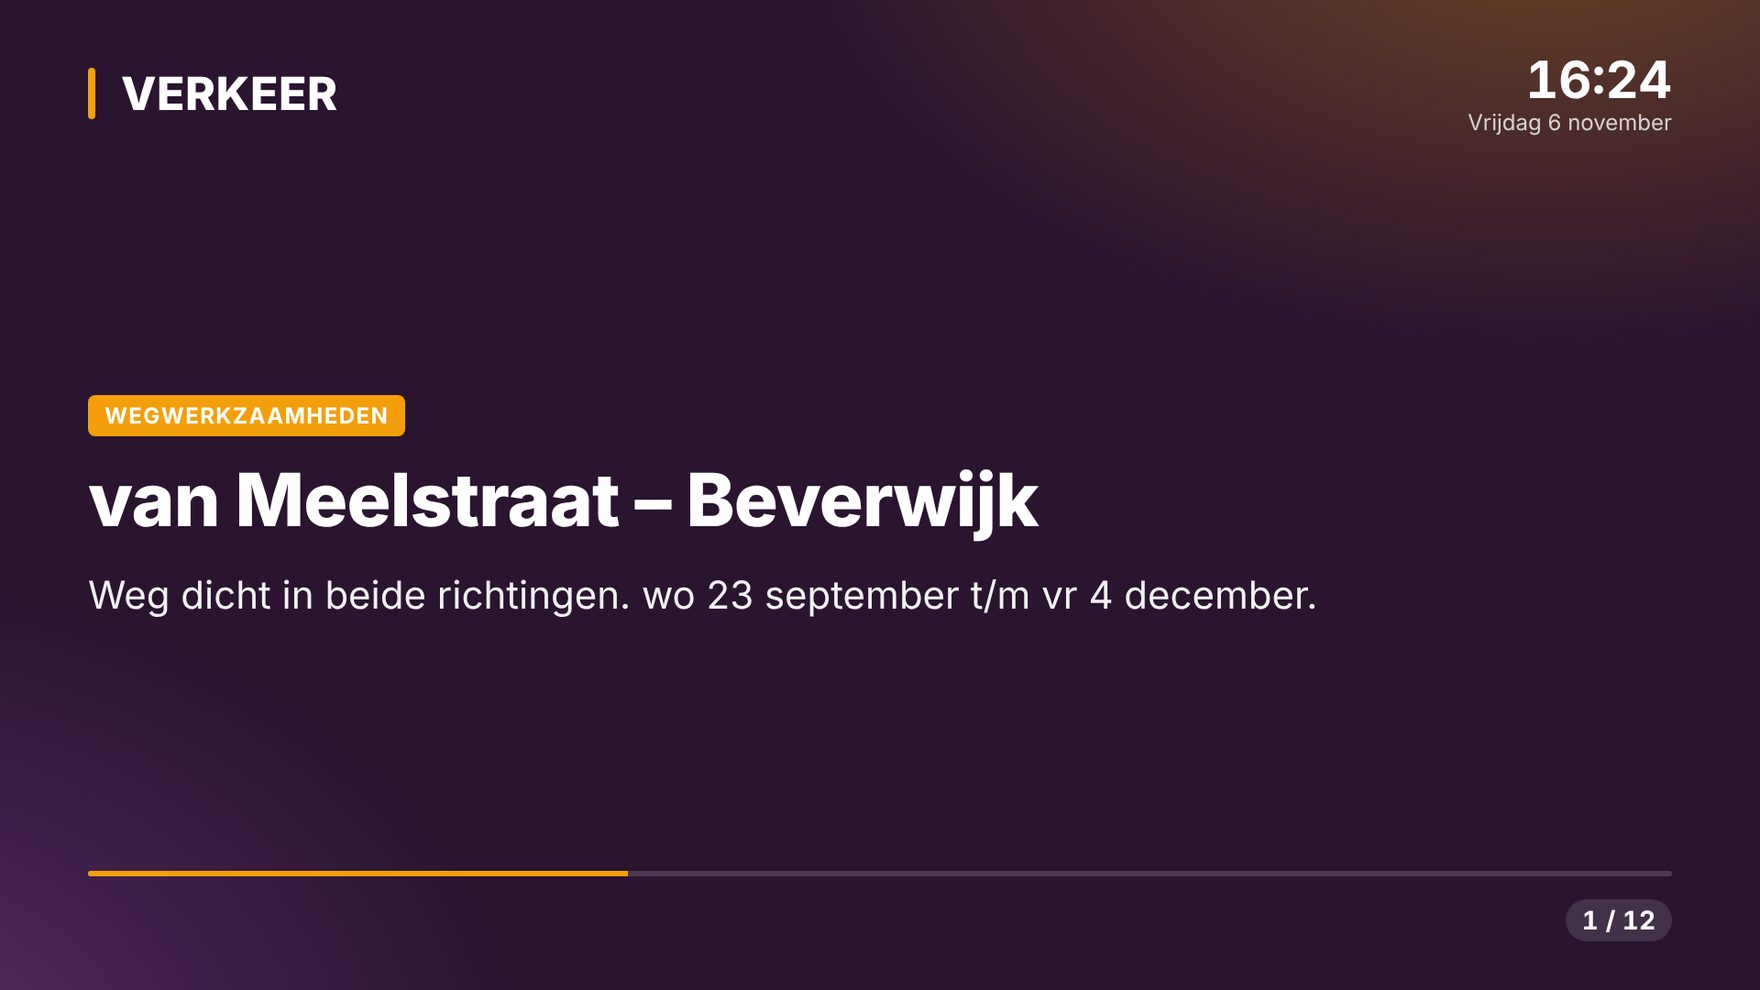
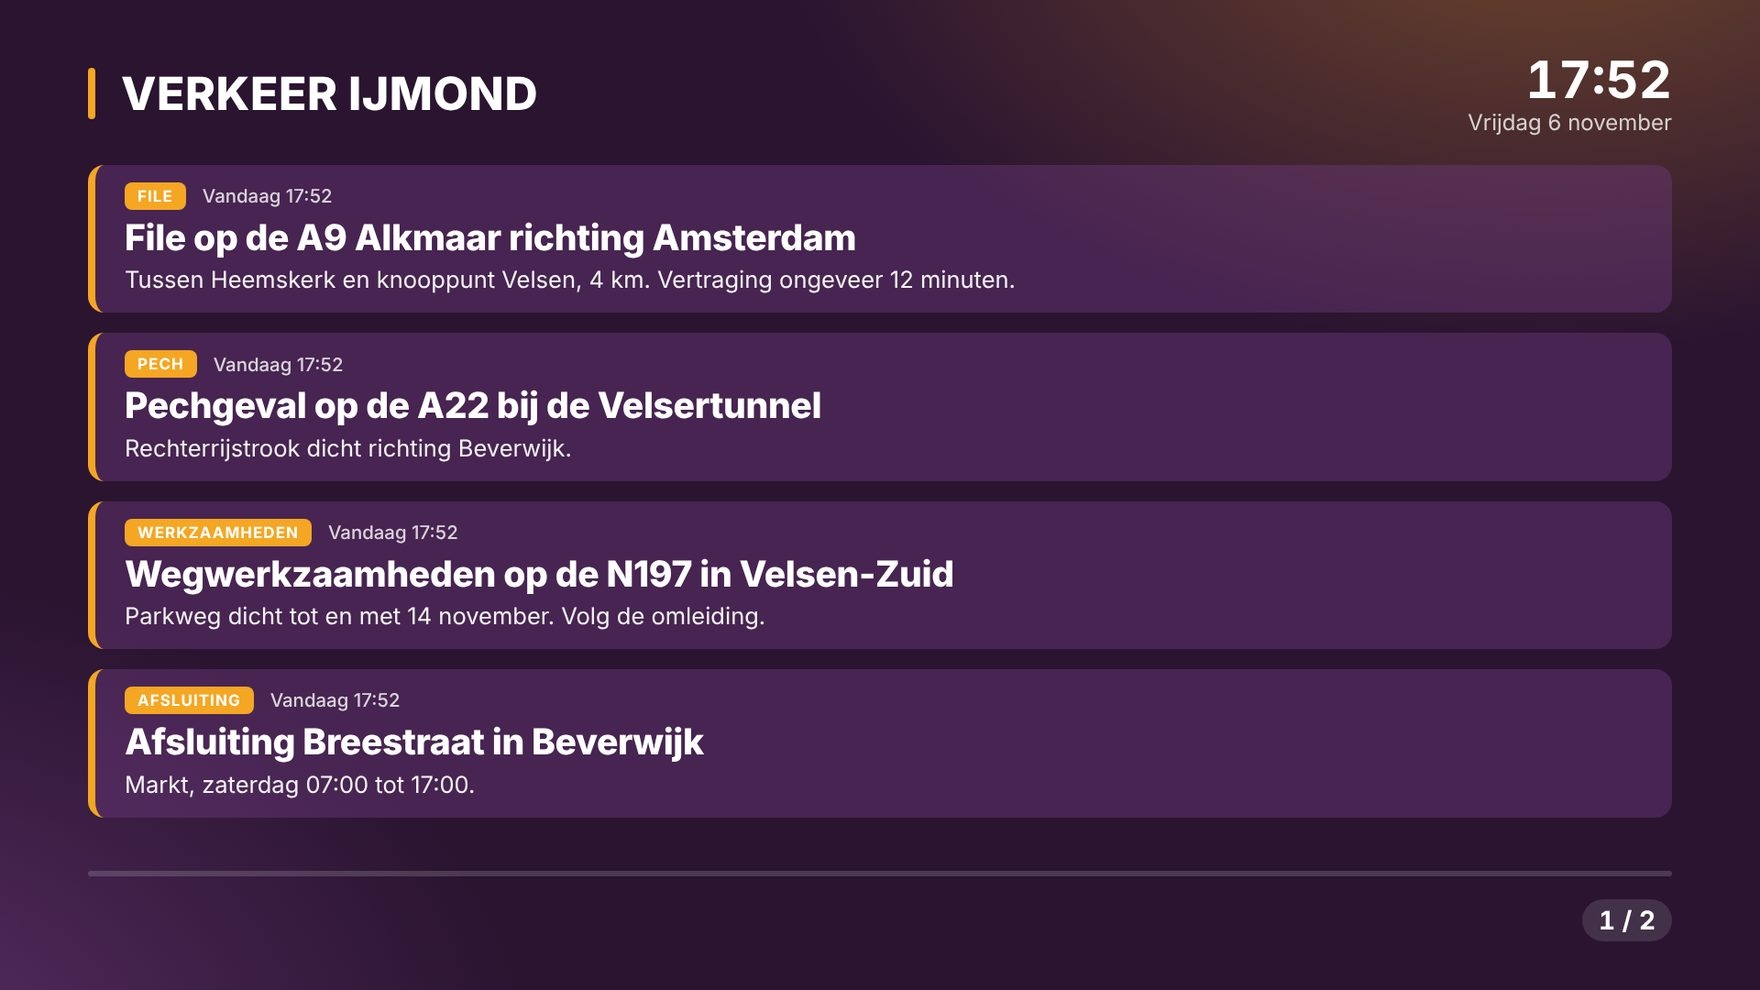
Beeldkrant: items per page (list of headlines), regional beeldkranten 4 per page
Claude-Session: https://claude.ai/code/session_01CnJtxFpcE8pMuPG4NumdHX

diff --git a/apps/management/server/beeldkrant-page.ts b/apps/management/server/beeldkrant-page.ts
@@ -4,9 +4,10 @@
  * `ticker` = height of the channel's news ticker when it stays on air over the beeldkrant: the footer moves up.
  * It fetches `/beeldkrant/<id>/data.json` (settings + pages) every minute and shows page
  * floor((now - start) / secondsPerPage) mod pageCount, so a restart or a second output shows the same page.
+ * With settings.itemsPerPage > 1 a page is a list of that many items (title, time, two lines of text, no photo).
  * The clock is corrected with the management node's time (serverTime).
  * Preview: `page.html?preview=1` in an iframe of the editor gets { type: "beeldkrant", settings, pages, logoUrl, pin }
- * through postMessage (pin = page index to hold, or null to cycle).
+ * through postMessage (pin = screen index to hold, or null to cycle).
  */
 export const BEELDKRANT_PAGE = `<!doctype html>
 <html>
@@ -68,6 +69,15 @@ export const BEELDKRANT_PAGE = `<!doctype html>
   .l-text .copy { max-width: 1500px; }
   .l-text .title { font-size: calc(80px * var(--scale)); }
   .l-text .text { font-size: calc(42px * var(--scale)); }
+  .l-list .box { top: 180px; }
+  .l-list .copy { justify-content: flex-start; gap: calc(26px * var(--scale)); }
+  .l-list .row { display: flex; gap: 26px; padding: calc(22px * var(--scale)) 32px; border-radius: 18px; background: color-mix(in srgb, var(--panel) 42%, transparent); border-left: 8px solid var(--accent); }
+  .l-list .row > div { min-width: 0; flex: 1; }
+  .l-list .meta { margin-bottom: 8px; font-size: calc(24px * var(--scale)); }
+  .l-list .chip { font-size: calc(20px * var(--scale)); padding: 5px 14px; }
+  .l-list .title { font-size: calc(46px * var(--scale)); line-height: 1.12; margin: 0 0 8px; }
+  .l-list .text { font-size: calc(30px * var(--scale)); line-height: 1.34; display: -webkit-box; -webkit-box-orient: vertical; -webkit-line-clamp: 2; }
+  .l-list .row.n4 .text, .l-list .row.n5 .text, .l-list .row.n6 .text { -webkit-line-clamp: 1; }
   .empty { position: absolute; inset: 0; display: grid; place-items: center; font-size: 48px; font-weight: 600; opacity: .85; text-align: center; padding: 0 200px; }
 </style>
 </head>
@@ -150,11 +160,35 @@ export const BEELDKRANT_PAGE = `<!doctype html>
     box.appendChild(copy); page.appendChild(box);
     return page;
   }
+  /** Several items on one page: a list of rows (no photos), shrunk together until it fits. */
+  function renderList(list, s) {
+    var page = el("div", "page l-list"), box = el("div", "box"), copy = el("div", "copy");
+    list.forEach(function (p) {
+      var row = el("div", "row n" + list.length), inner = el("div");
+      var meta = el("div", "meta");
+      if (s.show.category && p.category) meta.appendChild(el("span", "chip", p.category));
+      if (s.show.date && p.date) meta.appendChild(el("span", "when", when(p.date)));
+      if (meta.childNodes.length) inner.appendChild(meta);
+      inner.appendChild(el("h1", "title", p.title));
+      if (p.text) inner.appendChild(el("div", "text", p.text));
+      if (s.show.source && p.source) inner.appendChild(el("div", "src", p.source));
+      row.appendChild(inner); copy.appendChild(row);
+    });
+    box.appendChild(copy); page.appendChild(box);
+    return page;
+  }
+  function fitList(page) {
+    var copy = page.querySelector(".copy"), boxH = copy.parentNode.clientHeight;
+    for (var f = 1; f >= 0.55; f -= 0.05) {
+      page.style.setProperty("--scale", String(sizeScale() * f));
+      if (copy.scrollHeight <= boxH + 1) return;
+    }
+  }
   function show(key, make) {
     if (shown.key === key) return;
     var stage = $("stage"), old = shown.el, page = make();
     stage.appendChild(page);
-    if (page.querySelector(".copy")) fit(page);
+    if (page.classList.contains("l-list")) fitList(page); else if (page.querySelector(".copy")) fit(page);
     void page.offsetWidth;
     page.classList.add("on");
     if (old) { old.classList.remove("on"); old.classList.add("off"); setTimeout(function () { old.remove(); }, 1500); }
@@ -185,12 +219,15 @@ export const BEELDKRANT_PAGE = `<!doctype html>
     var ds = t.toLocaleDateString(lang(), { weekday: "long", day: "numeric", month: "long" });
     setText("date", ds.charAt(0).toUpperCase() + ds.slice(1));
     if (!data) return;
-    var s = data.settings, pages = data.pages || [], n = pages.length, per = s.secondsPerPage * 1000;
+    var s = data.settings, items = data.pages || [], per = s.secondsPerPage * 1000, ipp = Math.max(1, s.itemsPerPage || 1);
+    var pages = [];
+    for (var i = 0; i < items.length; i += ipp) pages.push(items.slice(i, i + ipp));
+    var n = pages.length;
     if (!n) { setText("num", ""); setProgress(0); show("empty:" + s.emptyText, function () { var e = el("div", "page"); e.appendChild(el("div", "empty", s.emptyText)); return e; }); return; }
     var elapsed = Math.max(0, now() - start), idx = pin != null ? Math.min(pin, n - 1) : Math.floor(elapsed / per) % n;
     var p = pages[idx];
-    show(JSON.stringify([p, s]), function () { return render(p, s); });
-    preload(pages[(idx + 1) % n]);
+    show(JSON.stringify([p, s]), function () { return ipp > 1 ? renderList(p, s) : render(p[0], s); });
+    if (ipp === 1) preload(pages[(idx + 1) % n][0]);
     setText("num", (idx + 1) + " / " + n);
     setProgress(pin != null ? 1 : (elapsed % per) / per);
   }

diff --git a/apps/management/web/pages/Beeldkrant.tsx b/apps/management/web/pages/Beeldkrant.tsx
@@ -13,6 +13,7 @@ type Layout = "photo-left" | "photo-right" | "photo-top" | "photo-full" | "text"
 const LAYOUTS: Layout[] = ["photo-left", "photo-right", "photo-top", "photo-full", "text"];
 interface Settings {
   secondsPerPage: number;
+  itemsPerPage: number;
   maxItems: number;
   maxAgeHours: number;
   maxTitleChars: number;
@@ -73,6 +74,7 @@ interface PageData {
 
 const defaults = (): Settings => ({
   secondsPerPage: 12,
+  itemsPerPage: 1,
   maxItems: 10,
   maxAgeHours: 72,
   maxTitleChars: 90,
@@ -202,21 +204,23 @@ function Preview({ settings, feedIds, onInfo }: { settings: Settings; feedIds: n
       void post<{ pages: PageData[]; durationMs: number }>("/api/beeldkranten/preview", { settings, feedIds })
         .then((r) => {
           setPages(r.pages);
-          onInfo({ pages: r.pages.length, durationMs: r.durationMs });
+          onInfo({ pages: Math.ceil(r.pages.length / Math.max(1, settings.itemsPerPage)), durationMs: r.durationMs });
         })
         .catch(() => undefined);
     }, 250);
     return () => clearTimeout(timer);
     // eslint-disable-next-line react-hooks/exhaustive-deps
   }, [key]);
+  // Screens on air: itemsPerPage items share one screen; the pin holds a screen.
+  const screens = Math.ceil(pages.length / Math.max(1, settings.itemsPerPage));
   useEffect(() => {
-    if (pin != null && pin >= pages.length) setPin(pages.length ? pages.length - 1 : null);
-  }, [pages.length, pin]);
+    if (pin != null && pin >= screens) setPin(screens ? screens - 1 : null);
+  }, [screens, pin]);
   useEffect(() => {
     if (ready) frame.current?.contentWindow?.postMessage({ type: "beeldkrant", settings, pages, logoUrl, pin }, location.origin);
   }, [ready, settings, pages, logoUrl, pin]);
 
-  const step = (d: number) => pages.length && setPin(((pin ?? 0) + d + pages.length) % pages.length);
+  const step = (d: number) => screens && setPin(((pin ?? 0) + d + screens) % screens);
   return (
     <div className="space-y-2">
       <div className="relative aspect-video w-full overflow-hidden rounded-lg border border-line bg-black shadow-sm">
@@ -228,7 +232,7 @@ function Preview({ settings, feedIds, onInfo }: { settings: Settings; feedIds: n
           {pin == null ? t("mgmt.bk.hold") : t("mgmt.bk.play")}
         </Button>
         <Button size="sm" variant="secondary" icon={<ChevronRight className="size-3.5" />} onClick={() => step(1)} disabled={!pages.length} title={t("mgmt.bk.nextPage")} />
-        <span className="ml-1 text-muted">{pin != null ? t("mgmt.bk.pageOf", { n: pin + 1, total: pages.length }) : t("mgmt.bk.pages", { count: pages.length })}</span>
+        <span className="ml-1 text-muted">{pin != null ? t("mgmt.bk.pageOf", { n: pin + 1, total: screens }) : t("mgmt.bk.pages", { count: screens })}</span>
       </div>
     </div>
   );
@@ -392,6 +396,15 @@ function Editor({ id, feeds, onSaved }: { id: number | "new"; feeds: Feed[]; onS
           <CardHeader icon={<RefreshCw className="size-4" />} title={t("mgmt.bk.timing")} description={t("mgmt.bk.timingHint")} />
           <CardBody className="space-y-4">
             <Num label={t("mgmt.bk.secondsPerPage")} value={s.secondsPerPage} min={3} max={120} suffix="s" onChange={(v) => set({ secondsPerPage: v })} />
+            <Field label={t("mgmt.bk.itemsPerPage")} hint={t("mgmt.bk.itemsPerPageHint")}>
+              {() => (
+                <Segmented
+                  value={String(s.itemsPerPage ?? 1)}
+                  onChange={(v) => set({ itemsPerPage: Number(v) })}
+                  options={["1", "2", "3", "4", "5", "6"].map((v) => ({ value: v, label: v }))}
+                />
+              )}
+            </Field>
             <Field label={t("mgmt.bk.length")} hint={t("mgmt.bk.lengthHint")}>
               {() => (
                 <Segmented

diff --git a/apps/management/web/public/help/index.html b/apps/management/web/public/help/index.html
@@ -338,9 +338,9 @@ regionaal: [
    <div class="warn"><b>Wees voorzichtig</b>Keur een melding af als hij te persoonlijk is, als er slachtoffers bij betrokken zijn of als de familie het nog niet weet.</div>` },
  { t: '112: veilig ingesteld', img: ['65-p2000-instellingen', 'Het venster 112-meldingen met hulpdiensten, vertraging, goedkeuring en straatnamen.'],
    b: `<p>De standaardinstellingen zijn bewust voorzichtig:</p><table><tr><th>Instelling</th><th>Standaard</th></tr><tr><td>Hulpdiensten</td><td>Brandweer en hulp op het water aan; ambulance, politie en traumahelikopter uit.</td></tr><tr><td>Vertraging</td><td>20 minuten, zodat je niet sneller bent dan de hulpdiensten ter plaatse.</td></tr><tr><td>Eerst goedkeuren</td><td>Aan.</td></tr><tr><td>Straatnaam tonen</td><td>Uit: alleen de plaats.</td></tr><tr><td>Automatische brandmeldingen</td><td>Worden overgeslagen.</td></tr><tr><td>Hoe lang tonen</td><td>6 uur.</td></tr></table><p>Huisnummers, namen en medische details komen nooit in beeld.</p>` },
- { t: 'Maak een beeldkrant en plan hem in', img: ['66-verkeer-op-zender', 'De beeldkrant Verkeer IJmond zoals de kijker hem ziet.'],
+ { t: 'Maak een beeldkrant en plan hem in', img: ['66-verkeer-op-zender', 'De beeldkrant Verkeer IJmond met vier berichten per pagina, zoals de kijker hem ziet.'],
    b: `<ol><li>Klik op de kaart op ${ui('Maak beeldkrant')}. Er komt een beeldkrant in de huisstijl, en een blok met dezelfde naam.</li><li>Zet dat blok in een uurblok, net als elke andere beeldkrant (hoofdstuk 1, stap 6), of kies hem bij ${ui('Vul de rest van het uur met')}.</li></ol>
-   <p>De berichten verversen vanzelf. Je hoeft de beeldkrant nooit opnieuw te maken.</p><div class="tip"><b>Ook in de nieuwsticker</b>Een regionale bron kan ook onderin beeld meelopen: kies hem bij ${ui('Kanaal &amp; lagen')} → Nieuwsticker → Feeds.</div>` },
+   <p>De berichten verversen vanzelf. Je hoeft de beeldkrant nooit opnieuw te maken.</p><p><b>Meer berichten tegelijk:</b> open de beeldkrant onder de tab ${ui('Beeldkranten')} en kies bij ${ui('Berichten per pagina')} 1 tot 6. Bij meer dan 1 komt er een lijst met koppen in beeld, zonder foto’s. Een nieuwe regionale beeldkrant toont er standaard 4 (evenementen 3).</p><div class="tip"><b>Ook in de nieuwsticker</b>Een regionale bron kan ook onderin beeld meelopen: kies hem bij ${ui('Kanaal &amp; lagen')} → Nieuwsticker → Feeds.</div>` },
 ],
 };
 

diff --git a/apps/management/server/rsslogic.ts b/apps/management/server/rsslogic.ts
@@ -291,6 +291,8 @@ export const LAYOUTS = ["photo-left", "photo-right", "photo-top", "photo-full", 
 export const beeldkrantSchema = z.object({
   /** How long each page (news item) stays on screen. */
   secondsPerPage: z.number().int().min(3).max(300).default(12),
+  /** Items shown together on one page: 1 = one big item, more = a list (titles + short text, no photos). */
+  itemsPerPage: z.number().int().min(1).max(6).default(1),
   /** Most recent items shown (over all feeds). */
   maxItems: z.number().int().min(1).max(100).default(10),
   /** Items older than this are left out (0 = no limit). */
@@ -389,9 +391,14 @@ export function buildPages(items: StoredItem[], s: BeeldkrantSettings, feedNames
     });
 }
 
-/** Default on-air length of a beeldkrant: one pass of all pages (at least one page), or the fixed time. */
-export function beeldkrantDuration(s: BeeldkrantSettings, pageCount: number) {
-  return s.duration.mode === "fixed" ? s.duration.fixedSeconds * 1000 : Math.max(1, pageCount) * s.secondsPerPage * 1000;
+/** Screens on air for `itemCount` items: `itemsPerPage` items share one screen. */
+export function screenCount(s: Pick<BeeldkrantSettings, "itemsPerPage">, itemCount: number) {
+  return Math.ceil(itemCount / Math.max(1, s.itemsPerPage ?? 1));
+}
+
+/** Default on-air length of a beeldkrant: one pass of all screens (at least one), or the fixed time. */
+export function beeldkrantDuration(s: BeeldkrantSettings, itemCount: number) {
+  return s.duration.mode === "fixed" ? s.duration.fixedSeconds * 1000 : Math.max(1, screenCount(s, itemCount)) * s.secondsPerPage * 1000;
 }
 
 /** The page on screen at `now` for a beeldkrant that started at `start` (pages loop). */

diff --git a/apps/management/server/rss.ts b/apps/management/server/rss.ts
@@ -19,7 +19,7 @@ import { publicUrl } from "./director.js";
 import { beeldkrantPages, beeldkrantSettings } from "./beeldkrantdb.js";
 import { loadRegional } from "./regional.js";
 import type { RegionalItem, RegionalSource } from "./regionallogic.js";
-import { beeldkrantDuration, beeldkrantSchema, mergeItems, parseFeed, wpPostsToItems, wpSite, wpUrls, type BeeldkrantSettings, type FeedItem, type WpCategory } from "./rsslogic.js";
+import { beeldkrantDuration, beeldkrantSchema, screenCount, mergeItems, parseFeed, wpPostsToItems, wpSite, wpUrls, type BeeldkrantSettings, type FeedItem, type WpCategory } from "./rsslogic.js";
 
 const FETCH_TIMEOUT_MS = 15_000;
 const MAX_FEED_BYTES = 8 * 1024 * 1024;
@@ -343,7 +343,7 @@ export function registerRss(app: FastifyInstance, platform: Platform, rss: RssFe
     if (!b) throw new HttpError(404, "not_found");
     const pages = rss.pages(b.settings, b.feedIds, false).length;
     const usedIn = (db.prepare("SELECT COUNT(DISTINCT block_id) AS n FROM block_items WHERE beeldkrant_id = ?").get(id) as { n: number }).n;
-    return { id, name: b.name, feedIds: b.feedIds, settings: b.settings, pageCount: pages, durationMs: beeldkrantDuration(b.settings, pages), usedIn, pageUrl: `${publicUrl(platform)}/beeldkrant/page.html?id=${id}` };
+    return { id, name: b.name, feedIds: b.feedIds, settings: b.settings, pageCount: screenCount(b.settings, pages), itemCount: pages, durationMs: beeldkrantDuration(b.settings, pages), usedIn, pageUrl: `${publicUrl(platform)}/beeldkrant/page.html?id=${id}` };
   };
   const saveFeeds = (id: number, feedIds: number[]) => {
     db.prepare("DELETE FROM beeldkrant_feeds WHERE beeldkrant_id = ?").run(id);

diff --git a/apps/management/test/beeldkrant.test.ts b/apps/management/test/beeldkrant.test.ts
@@ -9,7 +9,7 @@ import { test } from "node:test";
 import { createPlatform, type Platform } from "@tvsm/platform";
 import { managementOptions, type ManagementHandles } from "../server/app.ts";
 import type { DriverFactory, PlayoutDriver, SwitcherDriver, SwitcherInfo } from "../server/drivers.ts";
-import { beeldkrantDuration, beeldkrantSchema, buildPages, htmlToText, pageAt, parseFeed, truncate, wpPostsToItems, wpSite, wpUrls } from "../server/rsslogic.ts";
+import { beeldkrantDuration, beeldkrantSchema, buildPages, screenCount, htmlToText, pageAt, parseFeed, truncate, wpPostsToItems, wpSite, wpUrls } from "../server/rsslogic.ts";
 
 // ---- pure logic ---------------------------------------------------------------
 
@@ -112,6 +112,10 @@ test("beeldkrant: text is cut to the maximum, pages follow the settings", () => 
 
   assert.equal(beeldkrantDuration(s, 5), 5 * 12_000);
   assert.equal(beeldkrantDuration(s, 0), 12_000);
+  // Four items per page: 5 items = 2 screens.
+  assert.equal(beeldkrantDuration({ ...s, itemsPerPage: 4 }, 5), 2 * 12_000);
+  assert.equal(screenCount({ itemsPerPage: 3 }, 6), 2);
+  assert.equal(screenCount({ itemsPerPage: 1 }, 6), 6);
   assert.equal(beeldkrantDuration({ ...s, duration: { mode: "fixed", fixedSeconds: 300 } }, 5), 300_000);
   assert.deepEqual(pageAt(0, 25_000, 3, 10), { index: 2, elapsedMs: 5000 });
   assert.deepEqual(pageAt(0, 31_000, 3, 10), { index: 0, elapsedMs: 1000 });

diff --git a/apps/management/server/regional.ts b/apps/management/server/regional.ts
@@ -303,8 +303,10 @@ export function registerRegional(app: FastifyInstance, platform: Platform, rss: 
     const lang = (JSON.parse((db.prepare("SELECT config FROM rss_feeds WHERE id = ?").get(f.id) as { config: string }).config || "{}").language ?? "nl") as "nl" | "en";
     const settings = {
       layout: "text",
-      secondsPerPage: source === "traffic" ? 10 : 12,
-      maxItems: source === "p2000" ? 6 : 12,
+      // Short messages: several on one screen (the editor can change it on the beeldkrant).
+      itemsPerPage: source === "events" ? 3 : 4,
+      secondsPerPage: 15,
+      maxItems: source === "p2000" ? 12 : 16,
       maxAgeHours: source === "p2000" ? 6 : 0,
       maxTextChars: 300,
       headerText: d.header[lang],

diff --git a/apps/management/test/regional.test.ts b/apps/management/test/regional.test.ts
@@ -372,6 +372,7 @@ test("regional: sources switched on by the editors feed beeldkranten", async () 
   const data = async () => (await api("GET", `/beeldkrant/${bk.body.beeldkrantId}/data.json`)).body;
   assert.equal((await data()).pages.length, 0); // nothing approved yet
   assert.equal((await data()).settings.headerText, "112 IJmond");
+  assert.equal((await data()).settings.itemsPerPage, 4);
   for (const i of items) await api("POST", `/api/regional/items/${i.id}/approve`);
   // The fire is 30 minutes old (delay 20): on air. The gas leak is 2 minutes old: waits.
   assert.deepEqual((await data()).pages.map((x: { title: string }) => x.title), ["Woningbrand in IJmuiden"]);

diff --git a/docs/beeldkrant.md b/docs/beeldkrant.md
@@ -32,6 +32,6 @@ A beeldkrant is an item in a TV block (`block_items.type = 'beeldkrant'`). **Mak
 
 ## On air
 
-The director plays `PLAY <ch>-10 [HTML] "<publicUrl>/beeldkrant/page.html?id=<id>&start=<epoch ms>"` on the playout layer and keeps the ATEM on the playout input. The page (1920×1080) loads `/beeldkrant/<id>/data.json` every minute and shows page `floor((now - start) / secondsPerPage) mod pages`, corrected with the management node's clock, so a restart picks up the same page. Set **Settings → public URL** of the management node so the studio node can reach it.
+The director plays `PLAY <ch>-10 [HTML] "<publicUrl>/beeldkrant/page.html?id=<id>&start=<epoch ms>"` on the playout layer and keeps the ATEM on the playout input. The page (1920×1080) loads `/beeldkrant/<id>/data.json` every minute and shows page `floor((now - start) / secondsPerPage) mod pages`, corrected with the management node's clock, so a restart picks up the same page. With `itemsPerPage` > 1 (1–6) a page is a list of that many items (headline, time, short text, no photo); the duration and page numbers count these screens (`screenCount`). Set **Settings → public URL** of the management node so the studio node can reach it.
 
 Code: `server/rsslogic.ts` (pure: parsing, WordPress, text cutting, pages), `server/rss.ts` (feeds, fetching, routes), `server/beeldkrantdb.ts`, `server/beeldkrant-page.ts` (the HTML page), `web/pages/Beeldkrant.tsx`. Tests: `test/beeldkrant.test.ts`.

diff --git a/docs/beeldkrant.nl.md b/docs/beeldkrant.nl.md
@@ -32,4 +32,4 @@ Een beeldkrant is een item in een tv-blok (`block_items.type = 'beeldkrant'`). *
 
 ## Uitzending
 
-De regisseur speelt `PLAY <ch>-10 [HTML] "<publicUrl>/beeldkrant/page.html?id=<id>&start=<epoch ms>"` op de playout-laag en houdt de ATEM op de playout-input. De pagina (1920×1080) haalt elke minuut `/beeldkrant/<id>/data.json` op en toont pagina `floor((nu - start) / secondenPerPagina) mod pagina's`, gecorrigeerd met de klok van de management-node, zodat een herstart op dezelfde pagina verdergaat. Stel bij **Instellingen → publieke URL** het adres van de management-node in zodat de studio-node die kan bereiken.
+De regisseur speelt `PLAY <ch>-10 [HTML] "<publicUrl>/beeldkrant/page.html?id=<id>&start=<epoch ms>"` op de playout-laag en houdt de ATEM op de playout-input. De pagina (1920×1080) haalt elke minuut `/beeldkrant/<id>/data.json` op en toont pagina `floor((nu - start) / secondenPerPagina) mod pagina's`, gecorrigeerd met de klok van de management-node, zodat een herstart op dezelfde pagina verdergaat. Met `itemsPerPage` > 1 (1–6) is een pagina een lijst met zoveel berichten (kop, tijd, korte tekst, geen foto); de lengte en paginanummers tellen deze schermen (`screenCount`). Stel bij **Instellingen → publieke URL** het adres van de management-node in zodat de studio-node die kan bereiken.
